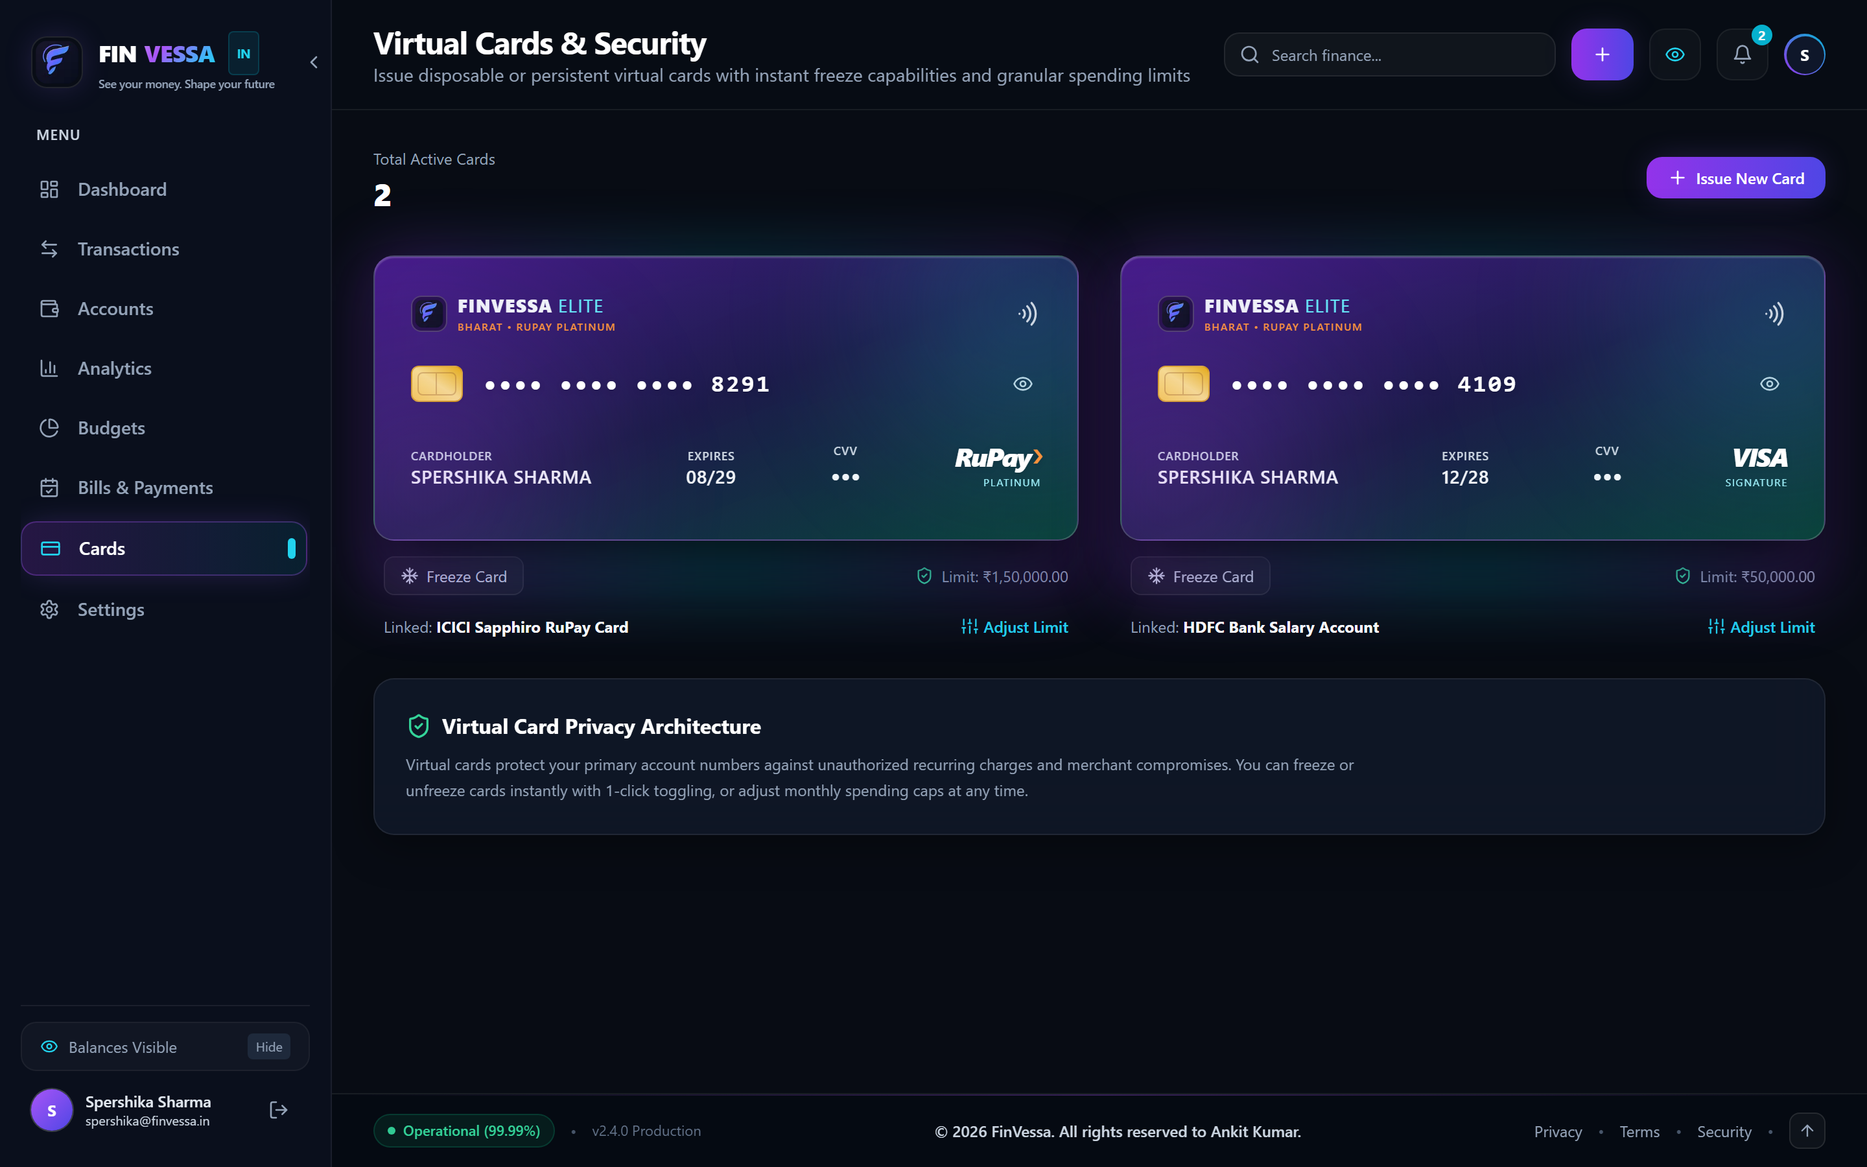
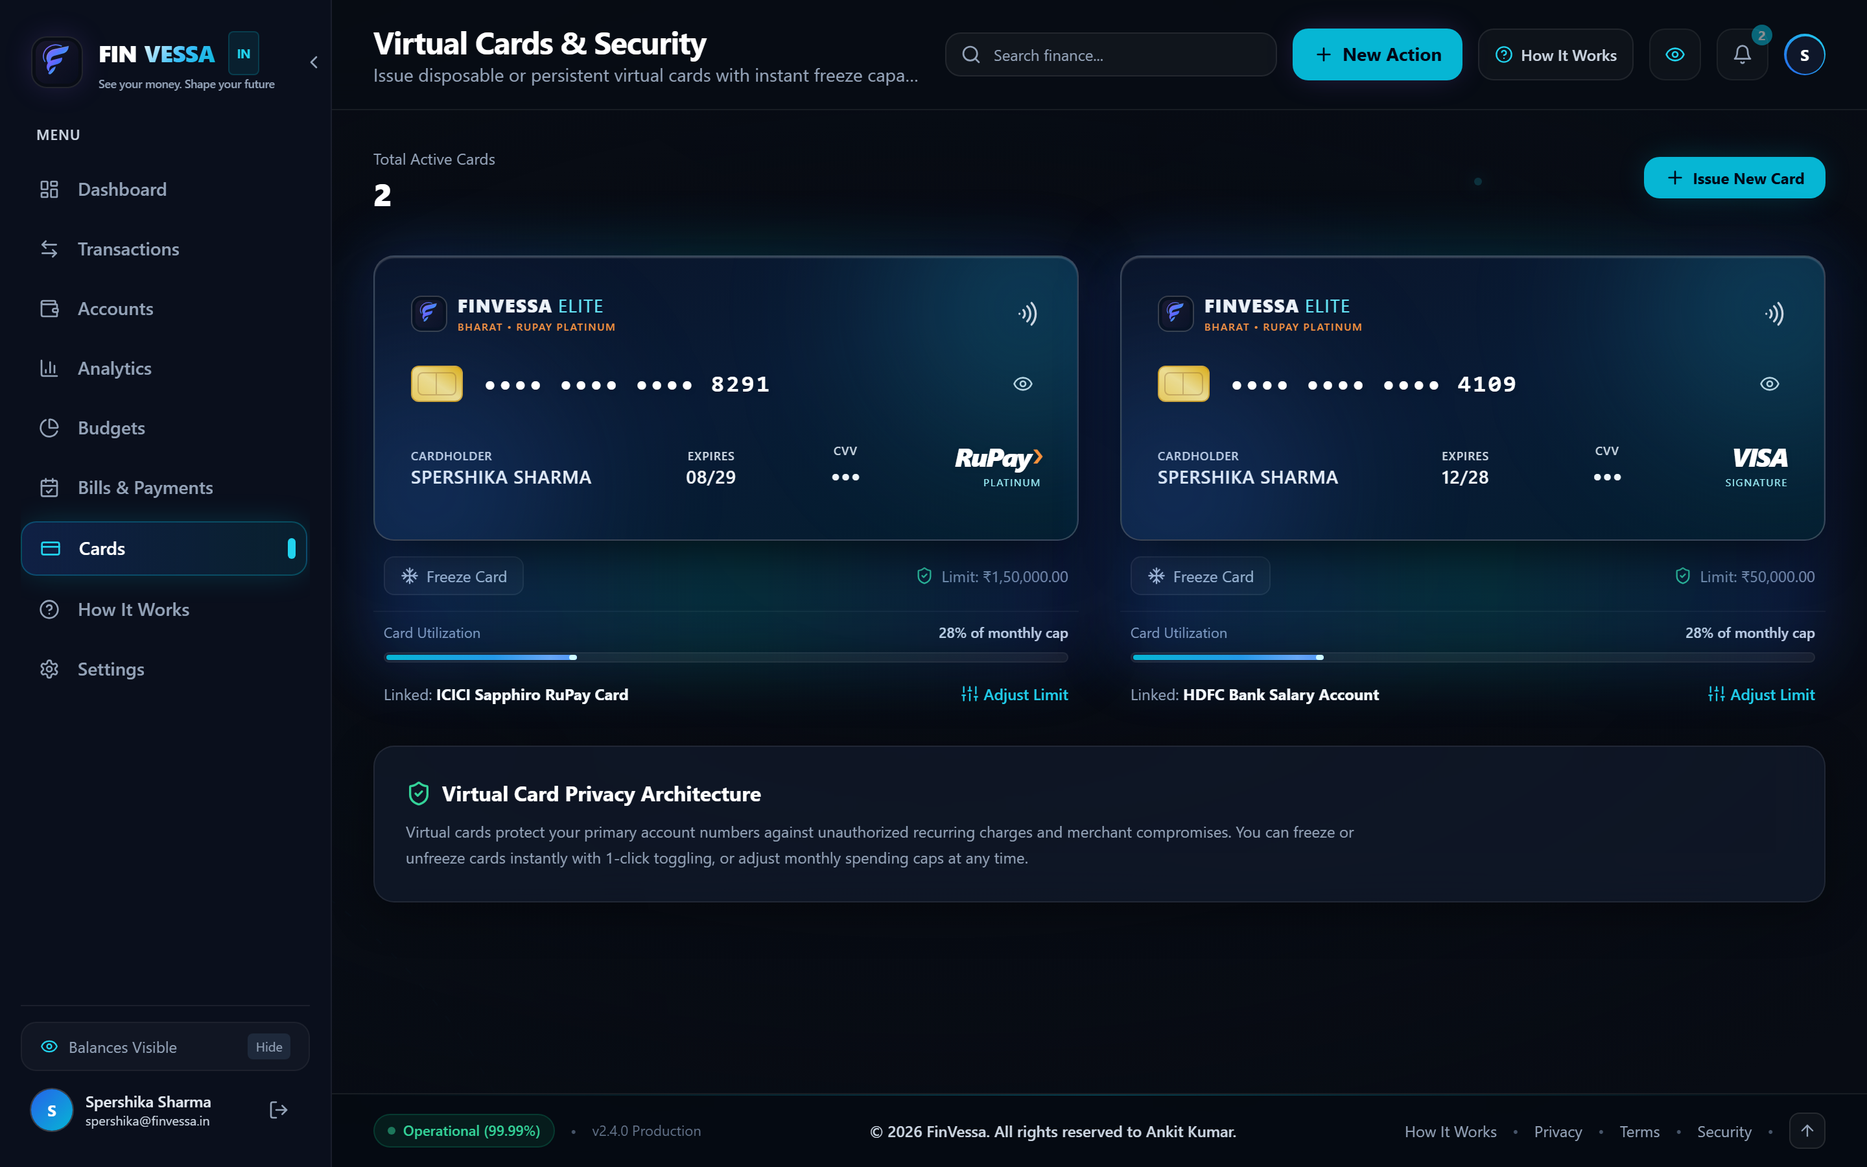
docs: redesign README with all features, interactive presentation guide, and fresh retina screenshots

diff --git a/scripts/capture-screenshots.js b/scripts/capture-screenshots.js
@@ -23,9 +23,15 @@ async function capture() {
 
   const page = await browser.newPage();
 
-  // 1. Log in via UI demo button
-  console.log("Navigating to login page for authentic demo authentication...");
+  // 1. Capture Login Screen first
+  console.log("Navigating to login page...");
   await page.goto("http://localhost:3000/login", { waitUntil: "networkidle0" });
+  await new Promise((res) => setTimeout(res, 1000));
+  await page.screenshot({ path: path.join(OUTPUT_DIR, "login.png"), fullPage: false });
+  console.log("Saved screenshot: login.png");
+
+  // 2. Log in via UI demo button
+  console.log("Authenticating via 1-Click Demo Login...");
   await page.evaluate(() => {
     const buttons = Array.from(document.querySelectorAll("button"));
     const demoBtn = buttons.find((b) => b.textContent && b.textContent.includes("Demo Login"));
@@ -35,12 +41,16 @@ async function capture() {
   console.log("Authenticated into FinVessa as Spershika Sharma!");
 
   const routes = [
-    { name: "dashboard.png", url: "http://localhost:3000/dashboard", waitMs: 1500 },
-    { name: "analytics.png", url: "http://localhost:3000/analytics", waitMs: 1500 },
-    { name: "cards.png", url: "http://localhost:3000/cards", waitMs: 1500 },
-    { name: "transactions.png", url: "http://localhost:3000/transactions", waitMs: 1500 },
-    { name: "settings.png", url: "http://localhost:3000/settings", waitMs: 1500 },
-    { name: "landing.png", url: "http://localhost:3000", waitMs: 1500 },
+    { name: "dashboard.png", url: "http://localhost:3000/dashboard", waitMs: 1800 },
+    { name: "analytics.png", url: "http://localhost:3000/analytics", waitMs: 1800 },
+    { name: "cards.png", url: "http://localhost:3000/cards", waitMs: 1800 },
+    { name: "transactions.png", url: "http://localhost:3000/transactions", waitMs: 1800 },
+    { name: "accounts.png", url: "http://localhost:3000/accounts", waitMs: 1800 },
+    { name: "budgets.png", url: "http://localhost:3000/budgets", waitMs: 1800 },
+    { name: "bills.png", url: "http://localhost:3000/bills", waitMs: 1800 },
+    { name: "how-it-works.png", url: "http://localhost:3000/how-it-works", waitMs: 1800 },
+    { name: "settings.png", url: "http://localhost:3000/settings", waitMs: 1800 },
+    { name: "landing.png", url: "http://localhost:3000", waitMs: 1800 },
   ];
 
   for (const r of routes) {

diff --git a/README.md b/README.md
@@ -1,17 +1,17 @@
 <div align="center">
 
-  <img src="public/finvessa-logo.svg" alt="FINVESSA - See your money. Shape your future" width="100%" style="max-width: 780px; border-radius: 16px; margin-bottom: 12px;" />
+  <img src="public/finvessa-logo.svg" alt="FINVESSA - See your money. Shape your future" width="100%" style="max-width: 780px; border-radius: 16px; margin-bottom: 14px;" />
 
   # 
   ### *See your money. Shape your future*
 
-  **Next-Generation Personal Finance, Wealth Intelligence & Double-Entry Ledger for India and Global Citizens**
+  **Enterprise-Grade Personal Finance, Wealth Intelligence & Double-Entry Ledger for India and Global Citizens**
 
   <p align="center">
     <a href="https://nextjs.org"><img src="https://img.shields.io/badge/Next.js-14.2-000000?style=for-the-badge&logo=next.js&logoColor=white" alt="Next.js" /></a>
     <a href="https://www.typescriptlang.org"><img src="https://img.shields.io/badge/TypeScript-5.6-3178C6?style=for-the-badge&logo=typescript&logoColor=white" alt="TypeScript" /></a>
     <a href="https://tailwindcss.com"><img src="https://img.shields.io/badge/Tailwind_CSS-3.4-38B2AC?style=for-the-badge&logo=tailwind-css&logoColor=white" alt="Tailwind" /></a>
-    <a href="https://www.prisma.io"><img src="https://img.shields.io/badge/Prisma-5.21-2D3748?style=for-the-badge&logo=prisma&logoColor=white" alt="Prisma" /></a>
+    <a href="https://www.prisma.io"><img src="https://img.shields.io/badge/Prisma-5.22-2D3748?style=for-the-badge&logo=prisma&logoColor=white" alt="Prisma" /></a>
     <a href="https://sqlite.org"><img src="https://img.shields.io/badge/SQLite-Zero_Config-003B57?style=for-the-badge&logo=sqlite&logoColor=white" alt="SQLite" /></a>
     <a href="https://framer.com/motion"><img src="https://img.shields.io/badge/Framer_Motion-14.2-0055FF?style=for-the-badge&logo=framer&logoColor=white" alt="Framer Motion" /></a>
     <a href="https://vitest.dev"><img src="https://img.shields.io/badge/Vitest-Unit_Tested-6E9F18?style=for-the-badge&logo=vitest&logoColor=white" alt="Vitest" /></a>
@@ -21,6 +21,7 @@
     <a href="#-overview--vision">Overview</a> •
     <a href="#-visual-tour--screenshots">Visual Tour</a> •
     <a href="#-key-features">Key Features</a> •
+    <a href="#-interactive-how-it-works-presentation">How It Works</a> •
     <a href="#-technical-architecture">Tech Stack</a> •
     <a href="#-financial-math--security">Financial Math</a> •
     <a href="#-getting-started">Getting Started</a> •
@@ -35,29 +36,30 @@
 
 <div align="center">
   <img src="public/screenshots/dashboard.png" alt="FINVESSA Dashboard" width="100%" style="border-radius: 14px; border: 1px solid rgba(255, 255, 255, 0.1); box-shadow: 0 20px 50px rgba(0, 0, 0, 0.6);" />
-  <p><em>FINVESSA Executive Dark Glassmorphism Dashboard with Indian RuPay / Visa Cards, Multi-Bank Balances, and Real-Time Ledger Analytics</em></p>
+  <p><em>FINVESSA Executive Dark Glassmorphism Dashboard featuring the redesigned personalized greeting ("Welcome back, Spershika Sharma 👋"), Indian RuPay & Visa cards, multi-bank balances, and real-time ledger cash flow metrics.</em></p>
 </div>
 
 ---
 
 ## 💎 Overview & Vision
 
-**FINVESSA** is an enterprise-grade personal wealth and cash-flow management platform designed with an obsidian-dark glassmorphism aesthetic, cyan and violet luminous accents, and strict financial accounting principles.
+**FINVESSA** is an enterprise-grade personal wealth and cash-flow management platform designed with an obsidian-dark glassmorphism aesthetic, cyan and emerald luminous accents, and strict financial accounting principles.
 
 Engineered specifically around modern Indian banking (HDFC Bank, State Bank of India, ICICI Bank, and Zerodha/Groww investment portfolios), FINVESSA combines high-performance UI engineering with atomic double-entry ledger safety:
 
 - **100% Exact Minor Currency Arithmetic**: Zero floating-point rounding errors. All ledger math executes in integer minor units (*paise* / *cents*).
-- **Atomic Double-Entry Bookkeeping**: Cross-account transfers run inside ACID database transactions with debits and credits mathematically guaranteed to remain balanced.
+- **Atomic Double-Entry Bookkeeping**: Cross-account transfers execute inside ACID database transactions with debits and credits mathematically guaranteed to remain balanced.
 - **Privacy Shield Mode**: One-click global concealment masks all figures to `••••••` across every card, table, chart, and header for discreet use in public spaces.
-- **Personalized Avatar Studio**: Device photo upload with browser-side canvas compression alongside curated vector SVG avatar styles.
-- **Enterprise Regulatory Footer**: Complete Indian banking ecosystem indicators, live system health, and interactive legal compliance modals.
+- **1-Click Instant Demo Access**: Frictionless biometric-style 1-click authentication pre-loaded with comprehensive Indian financial records for *Spershika Sharma*.
+- **Interactive "How It Works" Slide Deck**: A 6-slide presentation directly integrated into the platform demonstrating the architecture, privacy, and workflows.
+- **Capital Current Dynamic Background**: A subtle, finance-inspired ambient background system with banknote contours and restrained breathing pulses.
 
 ---
 
 ## 📸 Visual Tour & Screenshots
 
 ### 1. Executive Financial Dashboard (`/dashboard`)
-> Complete financial snapshot featuring real-time net cash flow, savings rate calculation, income vs. expense analytics, RuPay virtual card preview, and upcoming payment alerts.
+> Complete financial snapshot featuring real-time net cash flow, savings rate calculation (60.1%), income vs. expense analytics, RuPay virtual card preview, and upcoming payment alerts with the personalized hero greeting.
 
 <div align="center">
   <img src="public/screenshots/dashboard.png" alt="Executive Dashboard" width="100%" style="border-radius: 12px; border: 1px solid rgba(255, 255, 255, 0.08);" />
@@ -92,7 +94,52 @@ Engineered specifically around modern Indian banking (HDFC Bank, State Bank of I
 
 <br />
 
-### 5. Settings, Avatar Studio & Privacy (`/settings`)
+### 5. Multi-Bank & Investment Accounts (`/accounts`)
+> Comprehensive overview of all linked liquid accounts (HDFC Salary, SBI Wealth Savings), credit lines, and Zerodha/Groww mutual fund portfolios with 1-click inter-bank fund transfers.
+
+<div align="center">
+  <img src="public/screenshots/accounts.png" alt="Bank Accounts Overview" width="100%" style="border-radius: 12px; border: 1px solid rgba(255, 255, 255, 0.08);" />
+</div>
+
+<br />
+
+### 6. Smart Budgets & Expenditure Goals (`/budgets`)
+> Real-time category spending limits, dynamic expenditure progress meters, and automated visual threshold indicators at 80% and 100%+ allocations.
+
+<div align="center">
+  <img src="public/screenshots/budgets.png" alt="Budgets and Spending Goals" width="100%" style="border-radius: 12px; border: 1px solid rgba(255, 255, 255, 0.08);" />
+</div>
+
+<br />
+
+### 7. Scheduled Recurring Bills & SIPs (`/bills`)
+> Comprehensive recurring billing tracker for mutual fund SIPs, electricity, rent, and cloud subscriptions with 1-click instant settlement.
+
+<div align="center">
+  <img src="public/screenshots/bills.png" alt="Bills and Subscriptions" width="100%" style="border-radius: 12px; border: 1px solid rgba(255, 255, 255, 0.08);" />
+</div>
+
+<br />
+
+### 8. Interactive "How It Works" Slide Presentation (`/how-it-works`)
+> Dedicated interactive presentation walkthrough detailing system architecture, atomic ledger math, RuPay card integration, and privacy protection with slide navigation controls.
+
+<div align="center">
+  <img src="public/screenshots/how-it-works.png" alt="How It Works Presentation" width="100%" style="border-radius: 12px; border: 1px solid rgba(255, 255, 255, 0.08);" />
+</div>
+
+<br />
+
+### 9. Secure Sign In & 1-Click Instant Demo (`/login`)
+> Centered glassmorphic authentication card featuring dedicated cancellation cross (`✕`) button, 1-Click instant demo login for Spershika Sharma, and email/password entry.
+
+<div align="center">
+  <img src="public/screenshots/login.png" alt="Sign In and 1-Click Demo" width="100%" style="border-radius: 12px; border: 1px solid rgba(255, 255, 255, 0.08);" />
+</div>
+
+<br />
+
+### 10. Settings, Avatar Studio & Privacy (`/settings`)
 > Profile management, camera file picker with HTML5 canvas image scaling, vector avatar presets, global privacy mask toggle, and JSON data export.
 
 <div align="center">
@@ -101,8 +148,8 @@ Engineered specifically around modern Indian banking (HDFC Bank, State Bank of I
 
 <br />
 
-### 6. Public Landing Showcase (`/`)
-> High-converting homepage introducing FINVESSA's core pillars, trust badges, and direct demo access.
+### 11. Public Landing Showcase (`/`)
+> High-converting homepage introducing FINVESSA's core pillars, trust badges, live animated background, and direct access buttons.
 
 <div align="center">
   <img src="public/screenshots/landing.png" alt="FINVESSA Landing Page" width="100%" style="border-radius: 12px; border: 1px solid rgba(255, 255, 255, 0.08);" />
@@ -114,16 +161,32 @@ Engineered specifically around modern Indian banking (HDFC Bank, State Bank of I
 
 | Module | Features & Capabilities |
 | :--- | :--- |
-| **Executive Dashboard** | Real-time Net Cash Flow, Savings Rate (60.1%), Monthly Income vs. Expenses, Spending by Category, Upcoming Dues, and Quick Actions. |
-| **Transaction Ledger** | Add/edit/delete transactions, search by keyword, filter by account/category/type (`INCOME`, `EXPENSE`, `TRANSFER`), and atomic balance syncing. |
+| **Personalized Greeting** | Authoritative hero headline with enlarged username font (*Spershika Sharma*) and gentle animated waving hand (`👋`). |
+| **Executive Dashboard** | Real-time Net Cash Flow, Savings Rate (60.1%), Monthly Income vs. Expenses, Category Breakdown, Upcoming Dues, and Quick Actions. |
+| **Transaction Ledger** | Add/edit/delete transactions, search by keyword, filter by account/category/type (`INCOME`, `EXPENSE`, `TRANSFER`), with atomic balance syncing. |
 | **Bank Accounts** | Multi-account tracking (HDFC Salary, SBI Wealth Savings, ICICI RuPay, Zerodha/Groww), and atomic cross-account transfers. |
 | **Financial Analytics** | Recharts dual-gradient bar chart, smoothed cash flow area charts, category pie breakdown, and historical trend filters. |
 | **Smart Budgets** | Monthly category caps, real-time expenditure utilization meters, and visual warning badges at 80% and 100%+ thresholds. |
 | **Bills & Dues** | Recurring bills calendar (SIPs, rent, utilities), overdue detection, and 1-click settlement recording expense transactions. |
-| **Virtual Cards** | ICICI Sapphiro RuPay & HDFC Millennia Visa, masked card numbers, CVV reveal, live freeze/unfreeze, and monthly spend cap configuration. |
-| **Avatar Studio** | Device image file picker with automatic 256×256 canvas compression, 5 vector SVG presets, and global avatar synchronization. |
+| **Virtual Cards** | ICICI Sapphiro RuPay & HDFC Millennia Visa, masked card numbers, CVV reveal, live freeze/unfreeze, and spend cap configuration. |
+| **Presentation Deck** | Built-in interactive "How It Works" presentation (`/how-it-works`) with 6 slides, progress pills, and keyboard controls. |
+| **Avatar Studio** | Device image file picker with automatic 256×256 canvas compression, vector SVG presets, and global avatar synchronization. |
 | **Privacy Shield** | Global concealment eye replaces all sensitive monetary amounts with `••••••` across all views. |
-| **Comprehensive Footer** | Banking ecosystem links, live uptime indicator, Indian pride mark, and interactive modals for Privacy, Terms, and Security. |
+| **Cancellation Controls** | Dedicated cancel cross (`✕`) dismiss buttons on both Login and Signup cards returning directly to Home. |
+| **Mobile Header Space** | Refined mobile header with non-essential action buttons collapsed on small screens for full title visibility. |
+
+---
+
+## 🖥 Interactive "How It Works" Presentation
+
+FINVESSA includes an in-app slide deck available at `/how-it-works` that walks users through the platform in 6 interactive steps:
+
+1. **Unified Wealth Architecture**: Connecting liquid bank accounts, cards, and investment holdings into a single dashboard.
+2. **Double-Entry Ledger Security**: Mathematical debit/credit balance integrity stored strictly in minor units (*paise*).
+3. **RuPay & Visa Virtual Cards**: Dynamic monthly spending limits, instant freeze/unfreeze toggles, and masked CVV credentials.
+4. **Automated Cash Flow Intelligence**: Real-time savings rate tracking, category breakdowns, and income vs. expense trends.
+5. **Smart Budgets & Recurring Bills**: Proactive alerting on utility dues, mutual fund SIPs, and automated threshold alerts.
+6. **Privacy Shield & Client Encryption**: Zero-tracking architecture with one-click monetary concealment for public environments.
 
 ---
 
@@ -133,8 +196,9 @@ Engineered specifically around modern Indian banking (HDFC Bank, State Bank of I
 finvessa/
 ├── src/
 │   ├── app/                      # Next.js 14 App Router
-│   │   ├── (auth)/login, signup  # Authentication routes
-│   │   ├── dashboard/            # Executive dashboard
+│   │   ├── (auth)/login, signup  # Authentication routes with cancel (✕) buttons
+│   │   ├── dashboard/            # Executive dashboard with animated greeting
+│   │   ├── how-it-works/         # Interactive 6-slide presentation deck
 │   │   ├── transactions/         # Double-entry ledger
 │   │   ├── accounts/             # Multi-account management
 │   │   ├── analytics/            # Recharts cash flow analytics
@@ -142,18 +206,20 @@ finvessa/
 │   │   ├── bills/                # Scheduled recurring bills
 │   │   ├── cards/                # Virtual RuPay & Visa cards
 │   │   ├── settings/             # Preferences & Avatar Studio
+│   │   ├── privacy/              # Privacy Policy regulatory page
+│   │   ├── terms/                # Terms of Service regulatory page
 │   │   └── api/                  # Secure RESTful API endpoints
 │   ├── components/
 │   │   ├── cards/                # Holographic 3D Virtual Cards
 │   │   ├── charts/               # Recharts cash flow & category charts
-│   │   ├── dashboard/            # Metrics summary cards & widgets
-│   │   ├── layout/               # Header, Sidebar, Drawer, and Footer
+│   │   ├── dashboard/            # Metrics summary cards & greeting banner
+│   │   ├── layout/               # Header, Sidebar, Drawer, and Regulatory Footer
 │   │   ├── modals/               # Quick Actions & Transaction forms
-│   │   └── ui/                   # Reusable buttons, inputs, toasts
+│   │   └── ui/                   # Reusable buttons, inputs, toasts, LoadingScreen
 │   ├── context/                  # AuthContext, CurrencyContext, SidebarContext
 │   └── lib/                      # Prisma client, JWT auth, integer math
 ├── prisma/
-│   ├── schema.prisma             # Relational data models
+│   ├── schema.prisma             # Relational data models (User, Account, Transaction, VirtualCard...)
 │   └── seed.js                   # Indian banking test dataset (Spershika Sharma)
 ├── scripts/
 │   ├── test-api.js               # Full integration test suite
@@ -167,7 +233,7 @@ finvessa/
 - **Language**: [TypeScript 5.6](https://www.typescriptlang.org/) (Strict typing across all layers)
 - **Styling**: [Tailwind CSS 3.4](https://tailwindcss.com/) with obsidian glassmorphic design tokens
 - **Animations**: [Framer Motion 14](https://framer.com/motion) for smooth card renders and page transitions
-- **Database**: [SQLite](https://sqlite.org/) (Zero-configuration local default) / [PostgreSQL](https://www.postgresql.org/) ready via [Prisma ORM 5.21](https://www.prisma.io/)
+- **Database**: [SQLite](https://sqlite.org/) (Zero-configuration local default) / [PostgreSQL](https://www.postgresql.org/) ready via [Prisma ORM 5.22](https://www.prisma.io/)
 - **Icons**: [Lucide React](https://lucide.dev/)
 - **Charts**: [Recharts 2.13](https://recharts.org/)
 - **Testing**: [Vitest 2.1](https://vitest.dev/) (Unit tests) + Custom HTTP live verification suite
@@ -194,15 +260,16 @@ const formatted = new Intl.NumberFormat("en-IN", {
 Cross-account transfers use Prisma's `$transaction` API:
 ```typescript
 await prisma.$transaction(async (tx) => {
-  await tx.account.update({ where: { id: fromId }, data: { balance: { decrement: amount } } });
-  await tx.account.update({ where: { id: toId }, data: { balance: { increment: amount } } });
+  await tx.account.update({ where: { id: fromId }, data: { balanceCents: { decrement: amount } } });
+  await tx.account.update({ where: { id: toId }, data: { balanceCents: { increment: amount } } });
   await tx.transaction.create({ data: { type: "TRANSFER", ... } });
 });
 ```
 
-### 3. Authentication & Cookie Sessions
+### 3. Dynamic HTTP & HTTPS Cookie Sessions
 - Passwords are salted and hashed using **bcrypt** (10 salt rounds).
-- Sessions are maintained with signed **JWT tokens** delivered via **`httpOnly`**, **`SameSite=Lax`** secure cookies.
+- Sessions are maintained with signed **JWT tokens** delivered via **`httpOnly`**, **`SameSite=Lax`** cookies.
+- Cookie `secure` flag is evaluated dynamically (`secure: isHttps`), ensuring session persistence across both local network Wi-Fi testing (plain HTTP) and production deployments (HTTPS).
 
 ---
 
@@ -267,11 +334,11 @@ node scripts/capture-screenshots.js
 
 ## 👤 Default Demo Credentials
 
-For instant preview, use the **1-Click Demo Login** button on the sign-in page or enter:
+For instant preview, tap the **1-Click Demo Login** button on the sign-in page or enter:
 
 - **Name**: Spershika Sharma
 - **Email**: `spershika@finvessa.in`
-- **Password**: `Password123!`
+- **Password**: `Demo123!*`
 - **Linked Accounts**: HDFC Bank Salary, SBI Wealth Savings, ICICI Sapphiro RuPay, Zerodha/Groww
 
 ---
